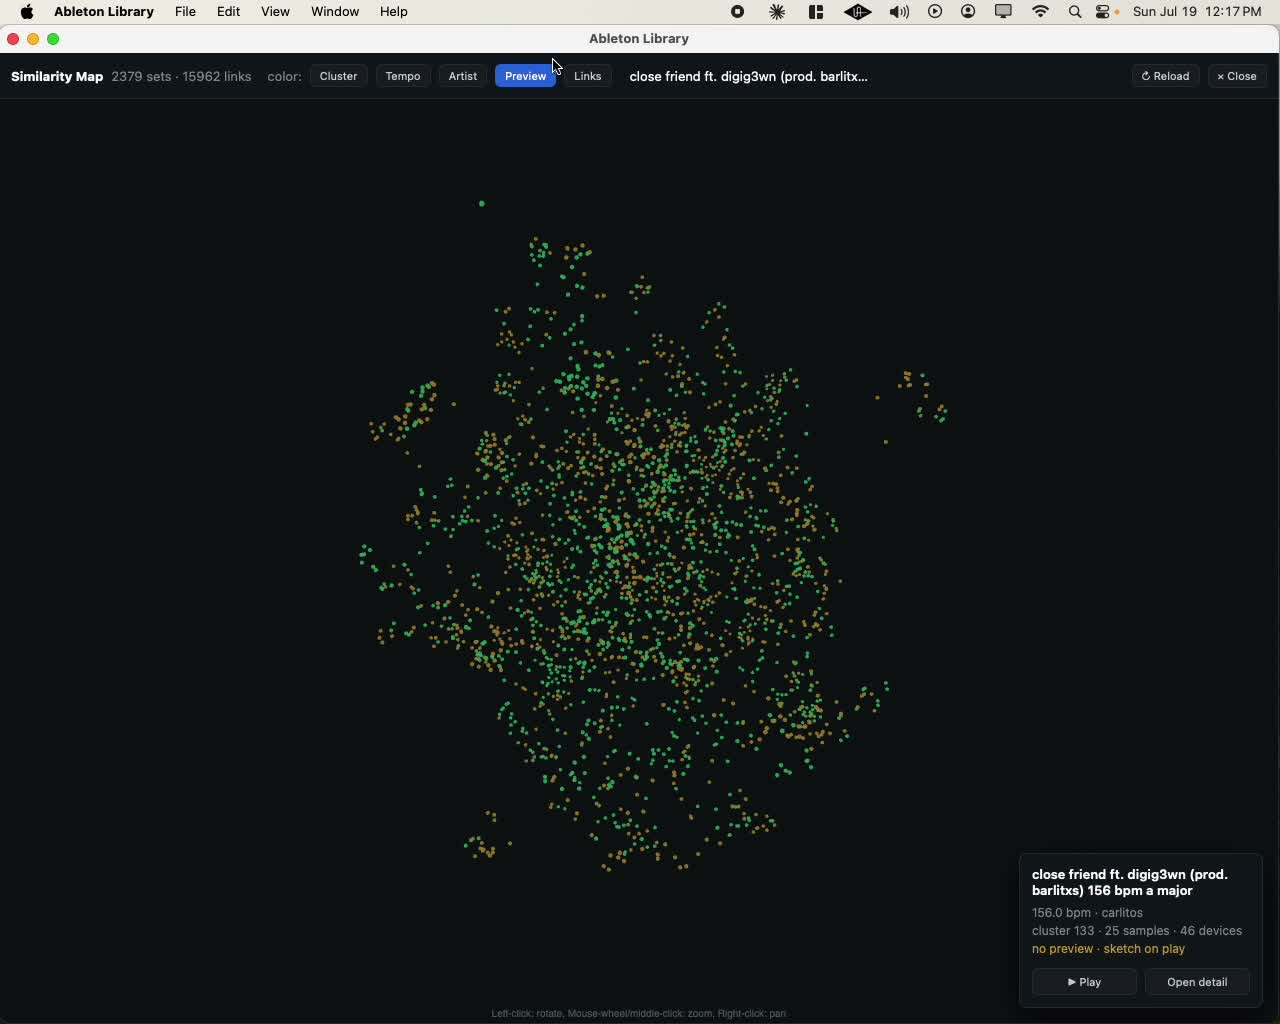
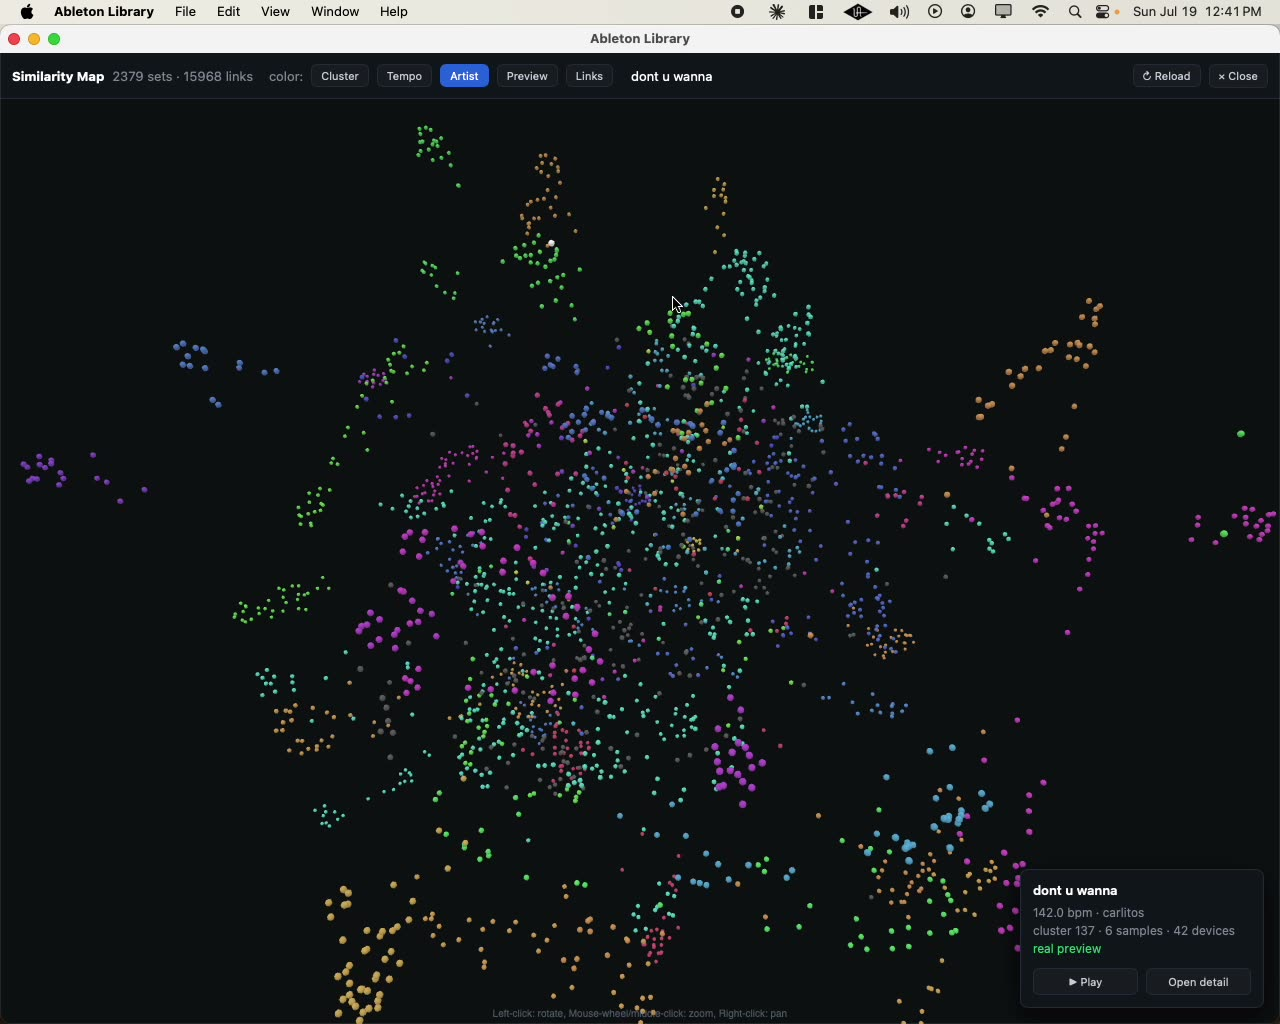
ableton-library: swap demo for a directed, tighter recording
Replaces the 70s unedited screen recording with a 34s take: map orbit
across color modes, live BPM/name filtering, then a project's track
list — trimmed before the OS-level app-launch transition into Finder.

Claude-Session: https://claude.ai/code/session_013CA4juE5NzKsmdtmLGcQC9

diff --git a/src/content/projects/ableton-library.md b/src/content/projects/ableton-library.md
@@ -8,7 +8,7 @@ stack: [Rust, SQLite FTS5, Tauri, TypeScript]
 repo: https://github.com/carlitoswillis/ableton-library
 video: /media/ableton-library.mp4
 poster: /media/ableton-library.jpg
-videoAlt: Screen recording of the app — searching the library while a preview plays, opening a project's track/device detail panel, then orbiting the 3D similarity map of the whole catalog.
+videoAlt: Screen recording of the app — orbiting the 3D similarity map colored by cluster, tempo, and artist, filtering the library by name and BPM range while a preview plays, then opening a project's track and device list.
 videoControls: true
 summary: After years of making music I'd accumulated hundreds of Ableton projects that were effectively unsearchable. This tool indexes them straight from disk — no SDK, no cloud — so I can search by tempo, plugin, sample, or artist without opening Live, preview sets as waveforms, and explore related projects through a 3D similarity visualization.
 order: 2